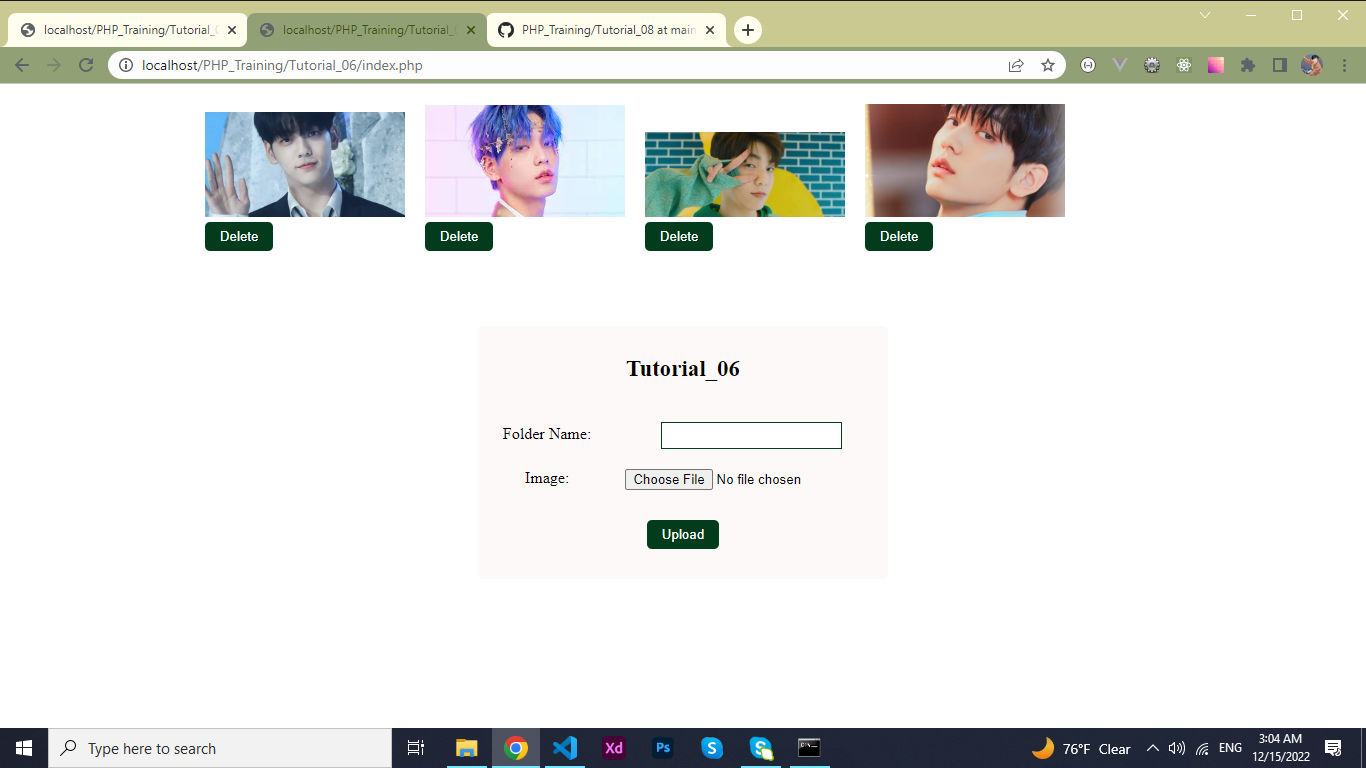
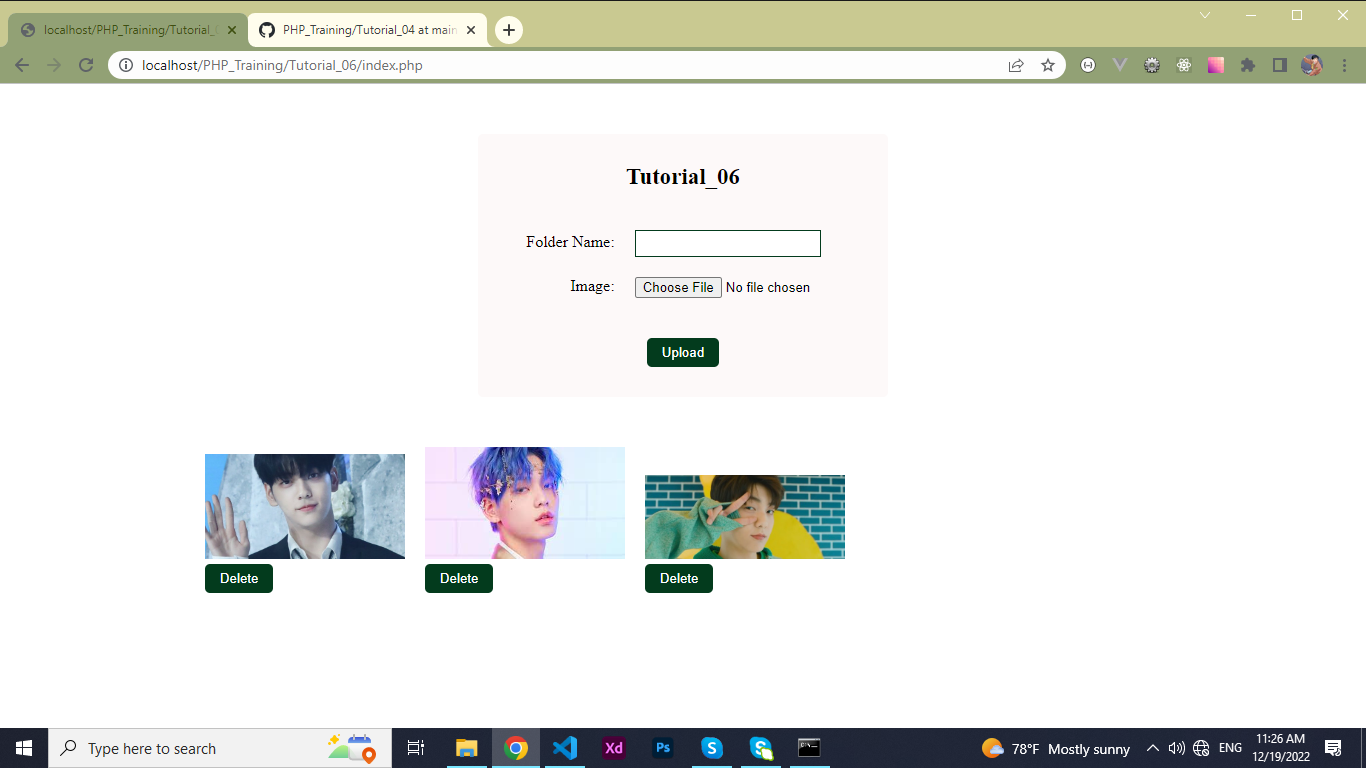
fixed review

diff --git a/Tutorial_06/css/style.css b/Tutorial_06/css/style.css
@@ -1,4 +1,5 @@
-tr {
+tr:first-child,
+tr:last-child {
   text-align: center;
 }
 
@@ -16,13 +17,18 @@ tr {
 }
 
 .txt {
-  padding: 10px 20px;
+  padding: 10px 20px 10px 48px;
+}
+
+.align-label {
+  text-align: right;
 }
 
 .input-txt {
   margin: 10px 0;
   border: 1px solid #033b1d;
-  padding: 5px 5px;
+  padding: 5px 5px 5px 10px;
+  text-align: left;
 }
 
 .input-txt:focus-visible {

diff --git a/Tutorial_07/css/style.css b/Tutorial_07/css/style.css
@@ -1,4 +1,5 @@
-tr {
+tr:first-child,
+tr:last-child {
   text-align: center;
 }
 
@@ -15,8 +16,12 @@ tr {
   font-size: 23px;
 }
 
+.qr-align {
+  text-align: right;
+}
+
 .txt {
-  padding: 10px 20px;
+  padding: 10px 32px;
 }
 
 .input-txt {

diff --git a/Tutorial_06/show.php b/Tutorial_06/show.php
@@ -4,6 +4,16 @@
 <?php
 $folder = "";
 $folder_err = "";
+$image_err = "";
+
+$file_name = $_FILES['image']['name'];
+$file_size = $_FILES['image']['size'];
+$file_tmp = $_FILES['image']['tmp_name'];
+
+$directory = $_POST['folder'];
+mkdir($directory);
+
+$file_path = $directory . "/" . $file_name;
 
 if ($_SERVER["REQUEST_METHOD"] == "POST") {
 
@@ -15,17 +25,20 @@ if ($_SERVER["REQUEST_METHOD"] == "POST") {
     } else {
         $folder = $input_folder;
     }
+
+    if (!empty($file_name)) {
+        $allowed = array("gif", "jpg", "jpeg", "png");
+        $ext = pathinfo($file_name, PATHINFO_EXTENSION);
+
+        if (($file_size < 2000000) && (in_array($ext, $allowed))) {
+            move_uploaded_file($file_tmp, $file_path);
+        } else {
+            $image_err = "Invalid file type";
+        }
+    } else {
+        $image_err = "Please select an image";
+    }
 }
-
-$directory = $_POST['folder'];
-mkdir($directory);
-
-$file_name = $_FILES['image']['name'];
-$file_size = $_FILES['image']['size'];
-$file_tmp = $_FILES['image']['tmp_name'];
-
-$file_path = $directory . "/" . $file_name;
-move_uploaded_file($file_tmp, $file_path);
 
 $images = [];
 $main_paths = scandir(__DIR__);
@@ -35,12 +48,14 @@ foreach ($main_paths as $main_path) {
         $child_paths = scandir($main_path);
         unset($child_paths[0], $child_paths[1]);
         foreach ($child_paths as $child_path) {
-            $images[] = $main_path . "/" . $child_path;
+            if ($main_path == "css") {
+                echo "";
+            } else {
+                $images[] = $main_path . "/" . $child_path;
+            }
         }
     }
 }
-
-unset($images[0], $images[1]);
 foreach ($images as $image) {
     echo '<div class="img-info">';
     echo '<img class="img-file" src="' . $image . '" />';

diff --git a/Tutorial_07/index.php b/Tutorial_07/index.php
@@ -2,26 +2,7 @@
 <link rel="stylesheet" href="css/style.css">
 <div class="qr-image">
 <?php
-require_once("lib/lib/full/qrlib.php");
-
 $text_err = "";
-
-if (isset($_POST["submit"])) {
-
-    $input_text = $_POST["qr_text"];
-    if (empty($input_text)) {
-      $text_err = "Please type text.";
-    } else {
-        $text = $input_text;
-
-        $save_txt = "generate/qr1.png";
-        $pixel_size = 30;
-        $frame_size = 10;
-        
-        QRcode::png($text, $save_txt, $pixel_size, $frame_size);
-        echo "<img src='generate/qr1.png'>";
-    }
-}
 ?>
 </div>
 <table class="qr-table">
@@ -30,7 +11,7 @@ if (isset($_POST["submit"])) {
             <td colspan="2"><h3 class="ttl">Let's create QR code.</h3></td>
         </tr>
         <tr>
-            <td><label class="txt" for="qr">Text: </label></td>
+            <td class="qr-align"><label class="txt" for="qr">Text: </label></td>
             <td>
                 <input class="input-txt" type="text" name="qr_text">
                 <p class="message"><?php echo $text_err; ?></p>
@@ -41,3 +22,27 @@ if (isset($_POST["submit"])) {
         </tr>
     </form>
 </table>
+<div class="qr-image">
+<?php
+require_once("lib/lib/full/qrlib.php");
+
+$text_err = "";
+
+if (isset($_POST["submit"])) {
+
+    $input_text = trim($_POST["qr_text"]);
+    if (empty($input_text)) {
+      $text_err = "Please type text.";
+    } else {
+        $text = $input_text;
+
+        $save_txt = "generate/" . $input_text . ".png";
+        $pixel_size = 25;
+        $frame_size = 10;
+        
+        QRcode::png($text, $save_txt, $pixel_size, $frame_size);
+        echo "<img src='generate/$input_text.png'>";
+    }
+}
+?>
+</div>

diff --git a/Tutorial_06/index.php b/Tutorial_06/index.php
@@ -1,27 +1,27 @@
 <link rel="stylesheet" href="css/reset.css">
 <link rel="stylesheet" href="css/style.css">
-<?php 
-error_reporting(0); 
-include("show.php") 
+<?php
+error_reporting(0);
+$folder_err = "";
+$image_err = "";
 ?>
-
 <table class="data-table">
     <form method="post" action="<?php echo htmlspecialchars($_SERVER['PHP_SELF']); ?>" enctype="multipart/form-data">
         <tr>
             <td colspan="2"><h3 class="ttl">Tutorial_06</h3></td>
         </tr>
         <tr>
-            <td><label class="txt" for="folder">Folder Name: </label></td>
+            <td class="align-label"><label class="txt" for="folder">Folder Name: </label></td>
             <td>
                 <input type="text" name="folder" class="input-txt" value="<?php echo $folder; ?>">
                 <p class="message"><?php echo $folder_err; ?></p>
             </td>
         </tr>
         <tr>
-            <td><label class="txt" for="image">Image: </label></td>
+            <td class="align-label"><label class="txt" for="image">Image: </label></td>
             <td>
                 <input class="" type="file" name="image" value="">
-                <p class="message"><?php if ($file_size >= 2000000) echo "File size too large!"; ?></p>
+                <p class="message"><?php echo $image_err; ?></p>
             </td>
         </tr>
         <tr>
@@ -29,4 +29,6 @@ include("show.php")
         </tr>
     </form>
 </table>
-
+<?php
+include "show.php"
+?>

diff --git a/Tutorial_06/delete.php b/Tutorial_06/delete.php
@@ -3,3 +3,4 @@ if (isset($_GET["id"])){
     unlink($_GET["id"]);
     header("location:index.php");
 }
+?>
